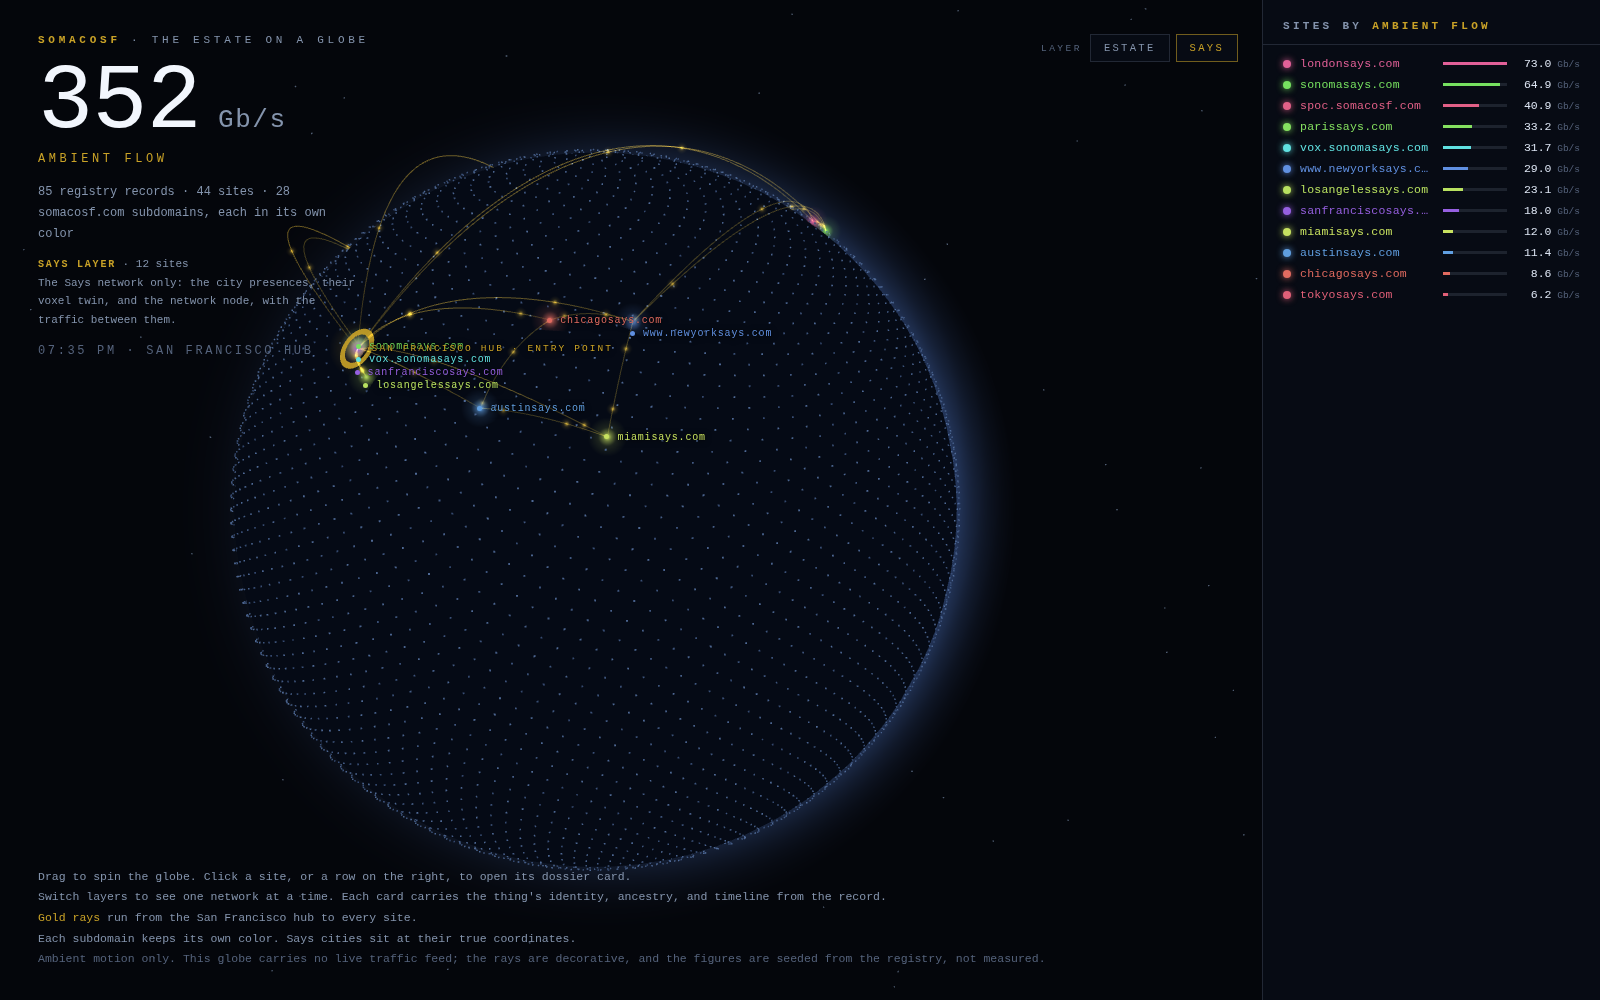
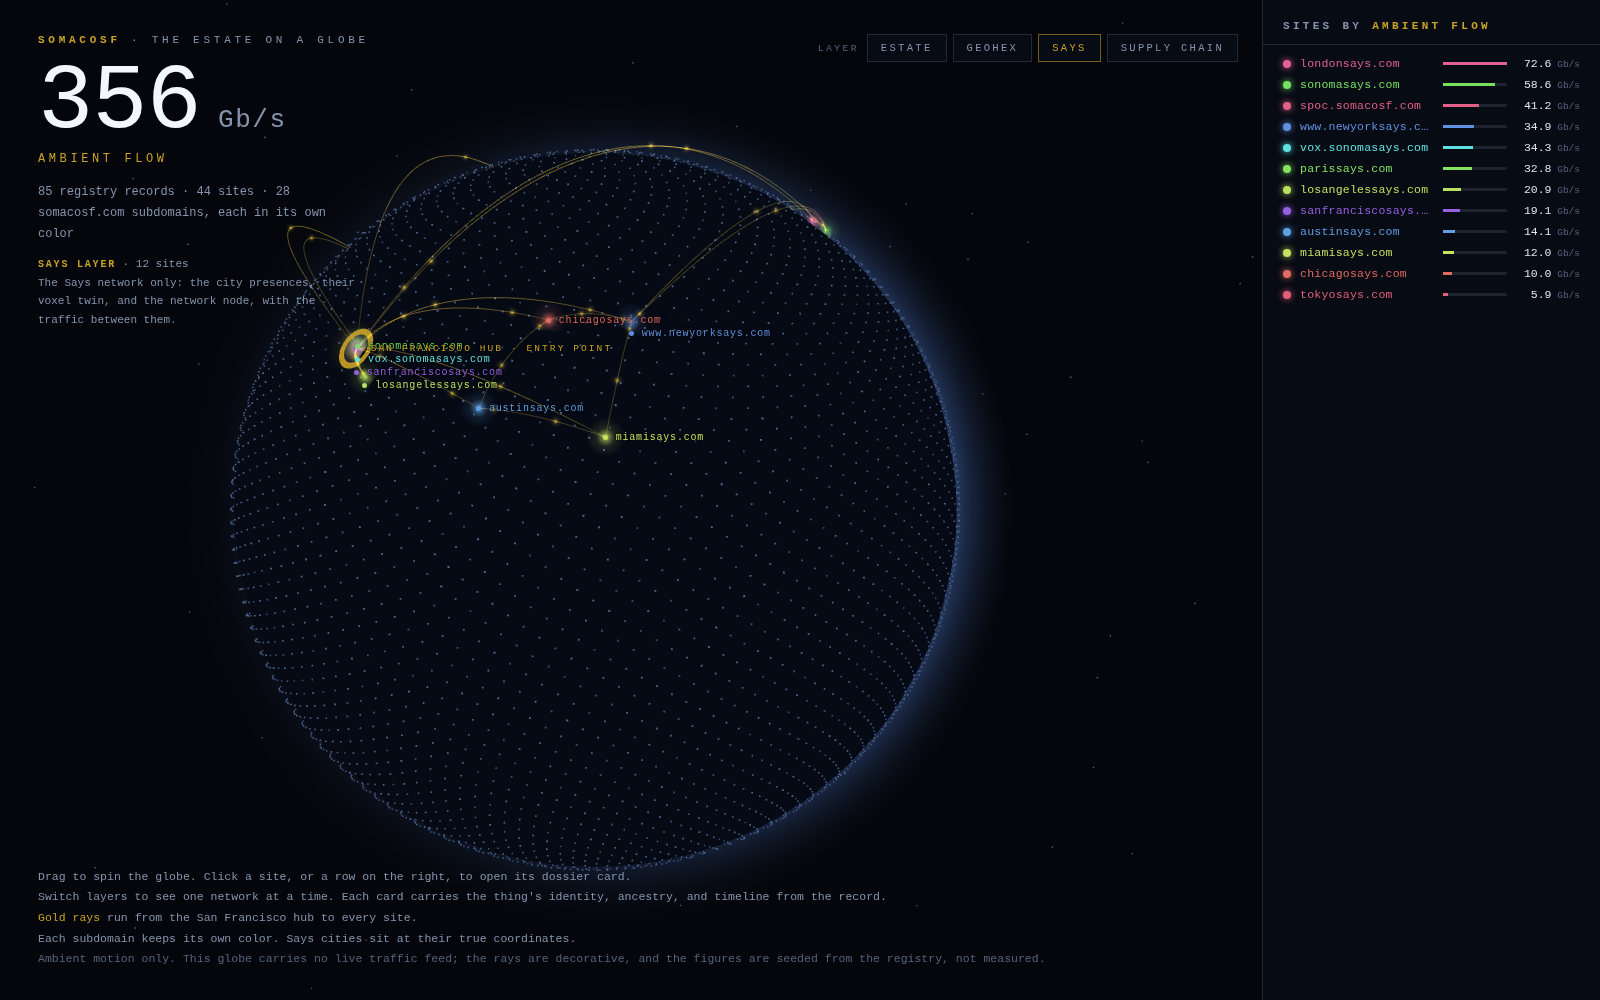
Layers as data: SUPPLY CHAIN and GEOHEX live; SHELLS and SPACE documents staged
SUPPLY CHAIN scopes the globe to scpm, atlas and dc, hub+mesh,
flows labelled modelled in the gloss. GEOHEX takes the full
population with hub flow only, the tiling read as the subject.
SHELLS (cayman.somacosf.com) and SPACE (sidc.somacosf.com) are
written and staged in assets/layers-staged/: both sites are live
but neither host is in the registry yet, so neither is a node the
engine can select. Their documents move into assets/layers/
unchanged when the registry records land. nodes.js is
byte-identical; ESTATE and SAYS behaviour untouched.

diff --git a/assets/layers.js b/assets/layers.js
@@ -25,6 +25,33 @@ window.ESTATE_LAYERS = [
   "entryPoints": [
    {
     "kind": "hub",
+    "label": "San Francisco hub"
+   },
+   {
+    "host": "geohex.somacosf.com",
+    "kind": "host",
+    "label": "GeoHex, spatial identity"
+   }
+  ],
+  "flow": {
+   "mesh": null,
+   "type": "hub"
+  },
+  "gloss": "The tiling itself as the subject: every site stands on addressed ground, one cell to a place, and density gathers where identity stands.",
+  "hubLabel": null,
+  "id": "geohex",
+  "leaderboard": {
+   "scope": "layer"
+  },
+  "name": "GEOHEX",
+  "population": {
+   "type": "all"
+  }
+ },
+ {
+  "entryPoints": [
+   {
+    "kind": "hub",
     "label": "San Francisco hub, the entry point"
    },
    {
@@ -53,6 +80,41 @@ window.ESTATE_LAYERS = [
    ],
    "suffix": "says.com",
    "type": "hostSuffix"
+  }
+ },
+ {
+  "entryPoints": [
+   {
+    "kind": "hub",
+    "label": "San Francisco hub"
+   },
+   {
+    "host": "atlas.somacosf.com",
+    "kind": "host",
+    "label": "Atlas, the supply chain map"
+   }
+  ],
+  "flow": {
+   "mesh": {
+    "k": 2,
+    "strategy": "nearest"
+   },
+   "type": "hub+mesh"
+  },
+  "gloss": "The supply chain surfaces: SCPM, the atlas of 91 companies across 10 bill of materials layers, and the datacenter working end, read as one chain. Flows are modelled, not measured.",
+  "hubLabel": "SAN FRANCISCO HUB \u00b7 MODELLED",
+  "id": "supply-chain",
+  "leaderboard": {
+   "scope": "layer"
+  },
+  "name": "SUPPLY CHAIN",
+  "population": {
+   "hosts": [
+    "scpm.somacosf.com",
+    "atlas.somacosf.com",
+    "dc.somacosf.com"
+   ],
+   "type": "hostList"
   }
  }
 ];

diff --git a/README.md b/README.md
@@ -108,12 +108,24 @@ Each document declares:
 * `leaderboard`: its scope. The board, the headline total, the globe,
   and node picking all re-scope to the active layer's population.
 
-Two documents ship today. **ESTATE** is the full registry. **SAYS** is
+Four documents ship today. **ESTATE** is the full registry. **SAYS** is
 the Says network only: the ten city presences, the Sonoma voxel twin,
 and SPOC, the network node, with mesh arcs between neighbours, the hub
 labelled as the entry point, and the board re-scoped to twelve sites.
-Adding a layer (SCPM is the expected third) means writing its document
-and rerunning `build_data.py`. No engine logic changes.
+**SUPPLY CHAIN** is the chain read through the estate's own surfaces:
+SCPM, the atlas, and the datacenter working end, hubbed and meshed,
+its flows labelled modelled. **GEOHEX** is the tiling read as the
+subject: the full population on addressed ground, hub flow only.
+Adding a layer means writing its document and rerunning
+`build_data.py`. No engine logic changes.
+
+Two further documents are written and staged in
+`assets/layers-staged/`, not baked: **SHELLS** (the Cayman construct,
+hubbed on cayman.somacosf.com) and **SPACE** (the SIDC layer, hubbed
+on sidc.somacosf.com). Both sites are live, but neither host is in the
+registry yet, so neither is a node the engine can select. The moment
+a registry record lands for either host, its document moves into
+`assets/layers/` unchanged and the next bake lights the layer up.
 
 ### Nothing leaves the page
 
